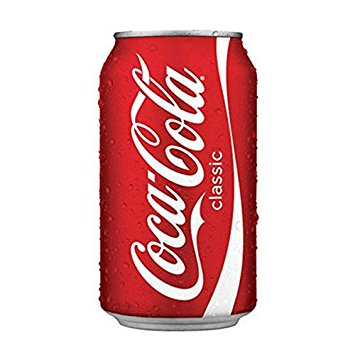
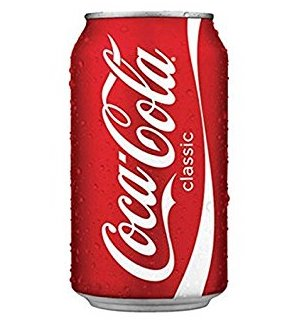
Resized fix

diff --git a/templates/index.html b/templates/index.html
@@ -12,12 +12,12 @@
 		    <div class="siema">
 		        <div>
 		        	<a href="/coke">
-		        		<img src="/static/items/coke.jpg" alt="Coke" width="280px">
+		        		<img src="/static/items/coke.jpg" alt="Coke" height="280px">
 		        	</a>
 		        </div>
 		        <div>
 		        	<a href="/coke_zero">
-		        		<img src="/static/items/coke_zero.jpg" alt="Zero Coke" width="280px">
+		        		<img src="/static/items/coke_zero.jpg" alt="Zero Coke" height="280px">
 		        	</a>
 		        </div>
 		    </div>

diff --git a/static/scss/style.scss b/static/scss/style.scss
@@ -12,7 +12,7 @@
 }
 
 .pricing{
-    width: 170px;
+    width: 200px;
     display: inline-block;
     position: absolute;
     top: 30px;
@@ -20,7 +20,7 @@
 
 .js-prev, .js-next{
     background-color: #c0c0c0;
-    height: 300px;
+    height: 280px;
     width: 50px;
     float: left;
     display: inline;

diff --git a/templates/order.html b/templates/order.html
@@ -6,7 +6,7 @@
 
     <body>
 
-        <img src="/static/items/{{ item }}.jpg" alt="Coke" width="280px">
+        <img src="/static/items/{{ item }}.jpg" alt="Coke" height="260px">
         <div class="pricing">
             <h2>PRICE: $1</h2>
             <h2>SCAN THE BITCOIN CASH ADDRESS:</h2>

diff --git a/static/css/style.css b/static/css/style.css
@@ -10,14 +10,14 @@
   margin: 0 auto; }
 
 .pricing {
-  width: 170px;
+  width: 200px;
   display: inline-block;
   position: absolute;
   top: 30px; }
 
 .js-prev, .js-next {
   background-color: #c0c0c0;
-  height: 300px;
+  height: 280px;
   width: 50px;
   float: left;
   display: inline;
